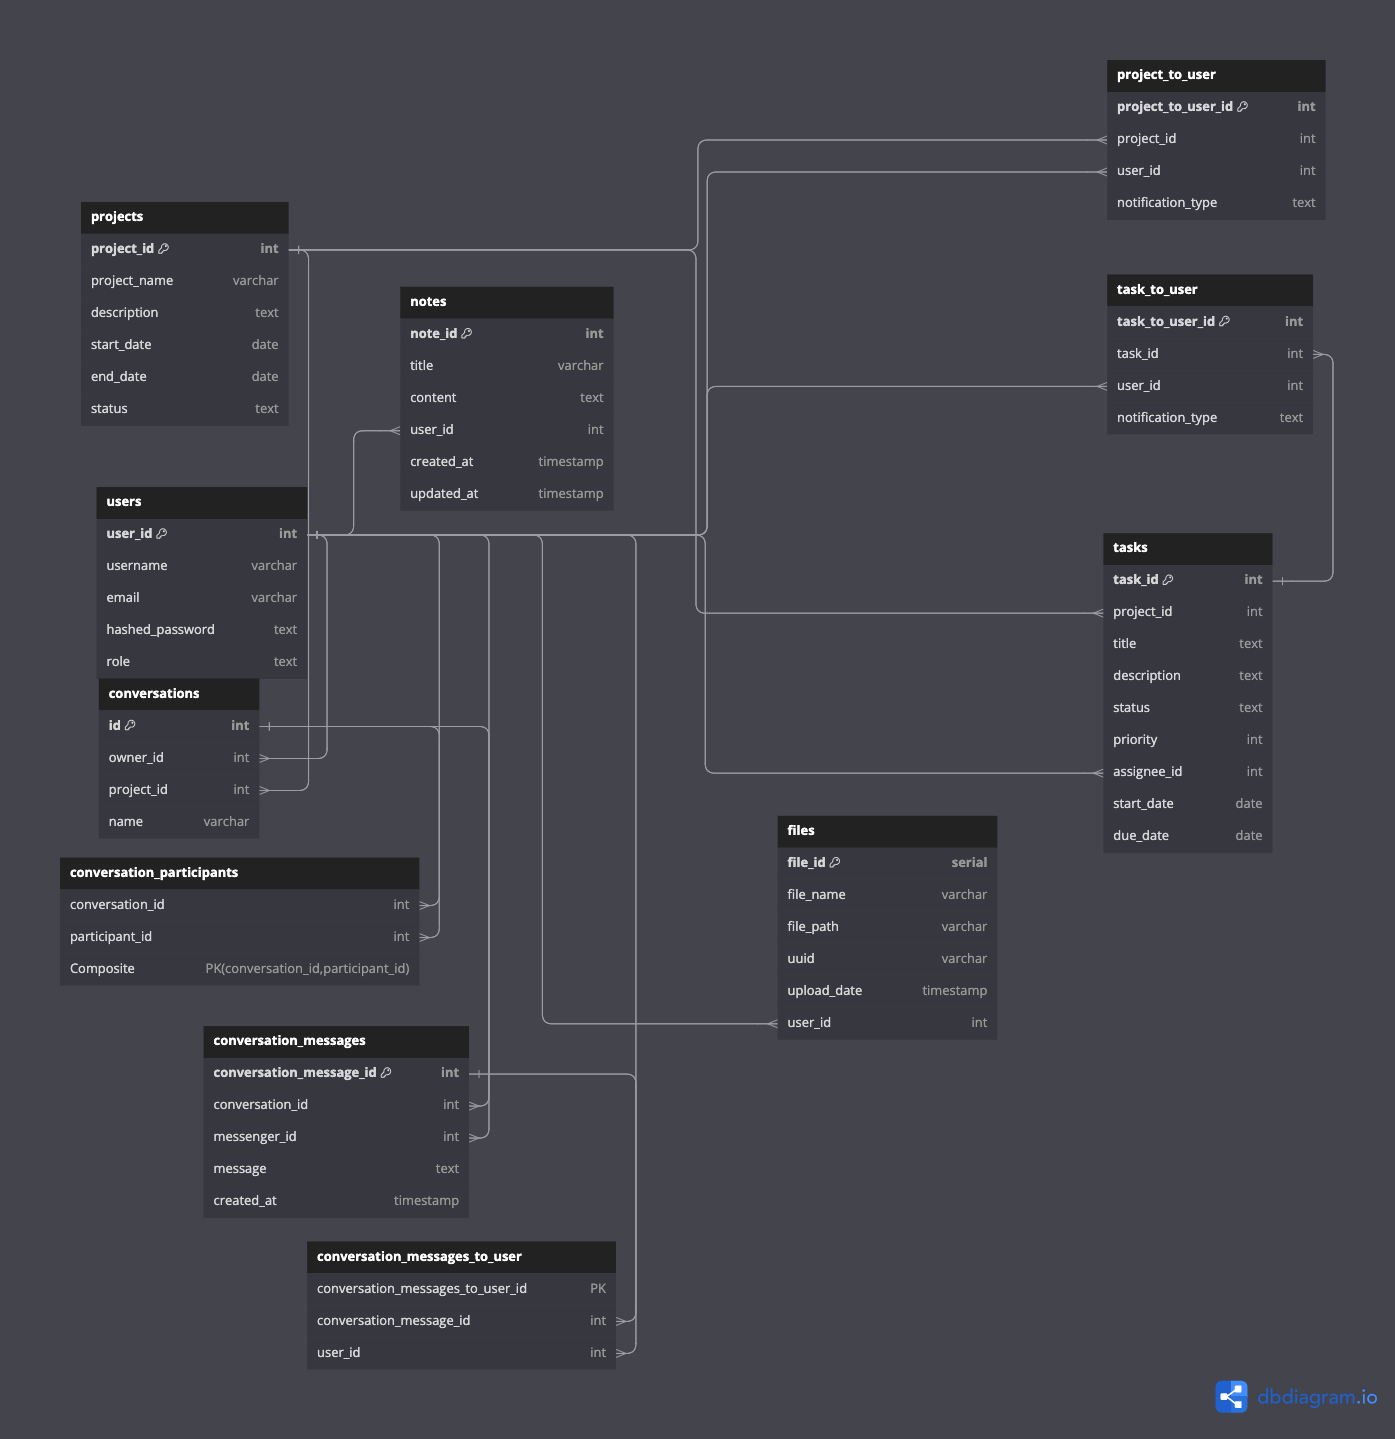
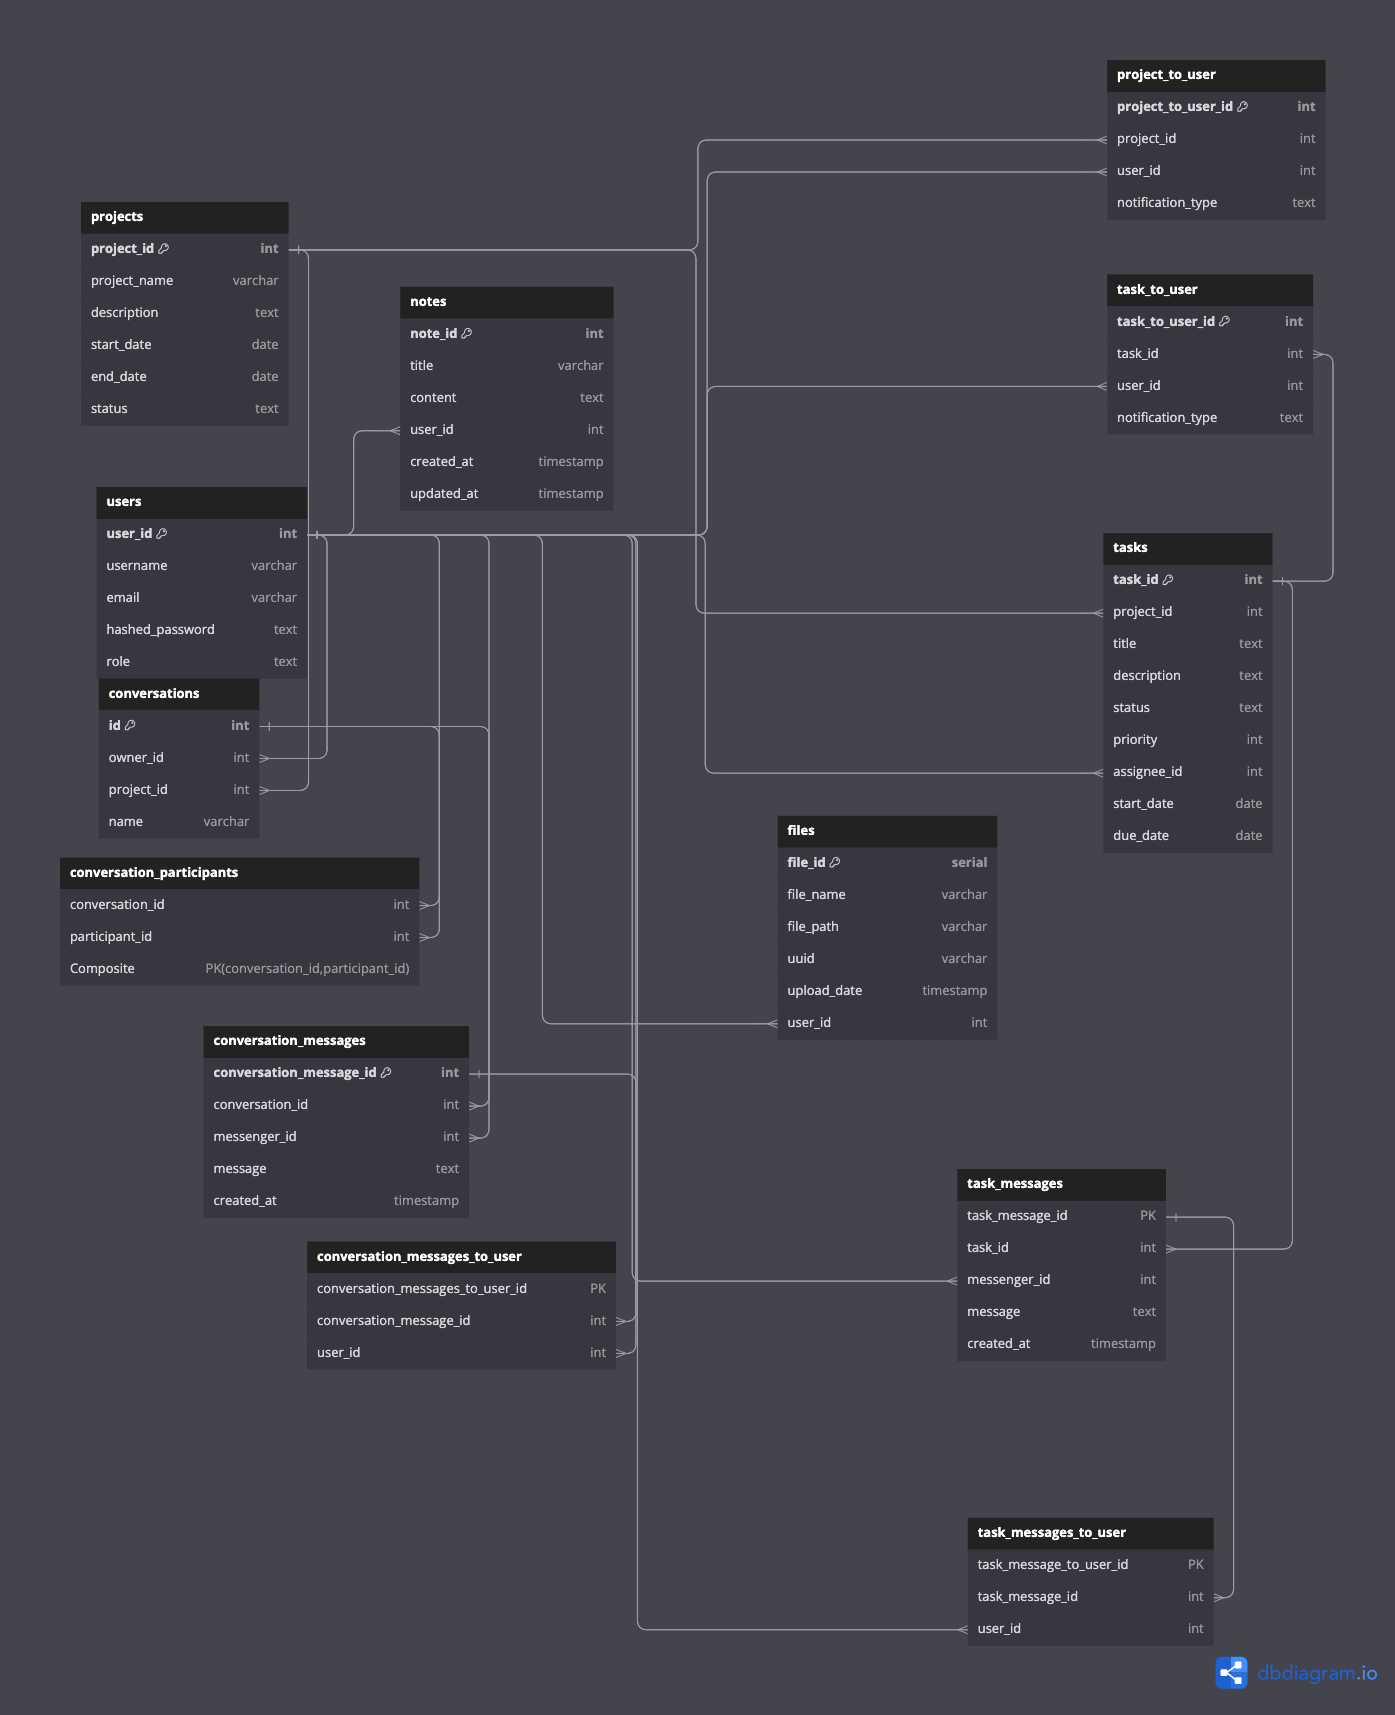
Edited the README to add task_message table and a task_message_to_user table

diff --git a/Server/dbdiagram.md b/Server/dbdiagram.md
@@ -87,3 +87,17 @@ Table conversation_messages_to_user {
   conversation_message_id int [ref: > conversation_messages.conversation_message_id]
   user_id int [ref: > users.user_id]
 }
+
+TABLE task_messages {
+    task_message_id PK
+    task_id int [ref: > tasks.task_id]
+    messenger_id int [ref: > users.user_id]
+    message text
+    created_at timestamp
+}
+
+TABLE task_messages_to_user {
+    task_message_to_user_id PK
+    task_message_id int [ref: > task_messages. task_message_id]
+    user_id int [ref: > users.user_id]
+}
